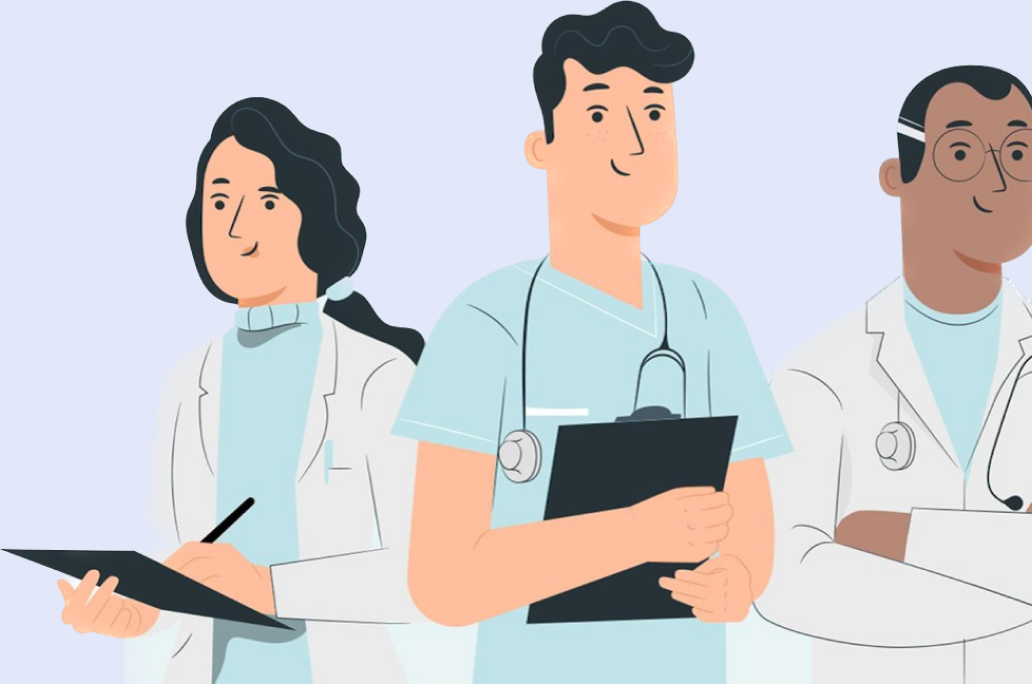
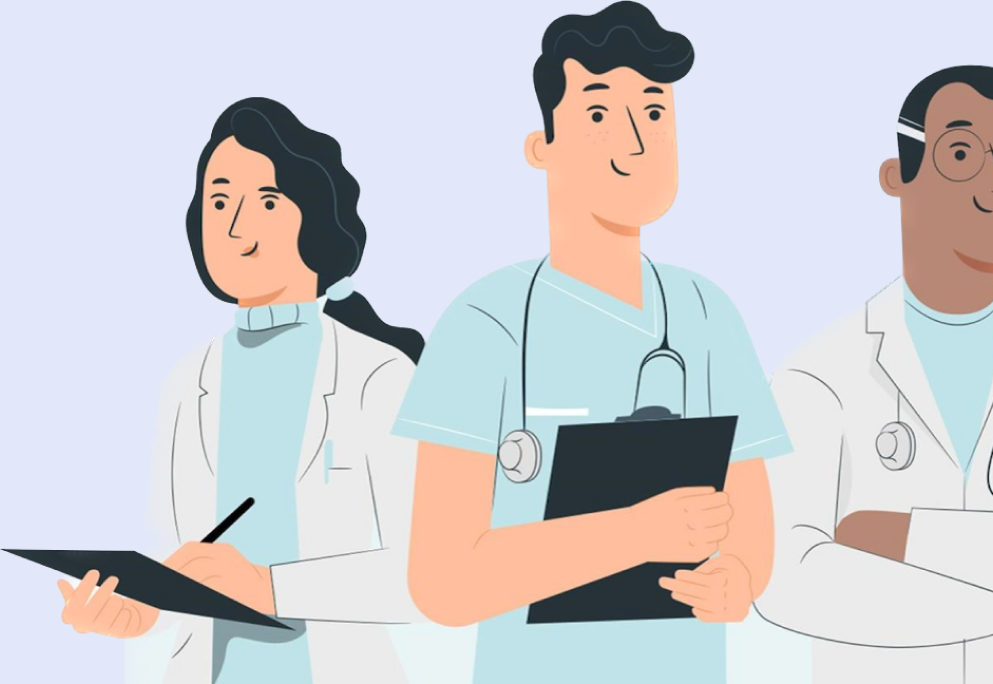
fix: 1번째 배너 최종

Changed region(s): [[0.0624, 0.0, 1.0, 1.0], [0.7805, 0.9211, 0.999, 0.9518], [0.9678, 0.8596, 1.0, 0.8904]]

diff --git a/src/component/Info.module.css b/src/component/Info.module.css
@@ -55,7 +55,7 @@
 
 .right01 {
   z-index: -1;
-  margin-left: auto;
+  margin-left: -20px;
   animation: zoomInOut 1.8s ease-in-out infinite;
 }
 
@@ -77,7 +77,7 @@
     transform: scale(1);
   }
   50% {
-    transform: scale(1.037);
+    transform: scale(1.025);
   }
   100% {
     transform: scale(1);
@@ -88,7 +88,7 @@
   display: flex;
   align-items: center;
   justify-content: center;
-  padding-left: 30%;
+  margin-left: 20%;
   padding-right: 5%;
   animation: zoomInOut 1.8s ease-in-out infinite;
 }
@@ -96,7 +96,7 @@
 .info .swiper_002 .rightside {
   display: flex;
   flex-direction: column;
-  margin-right: 30px;
+  margin-right: 20px;
 }
 
 .info .swiper_002 .rightside .one {
